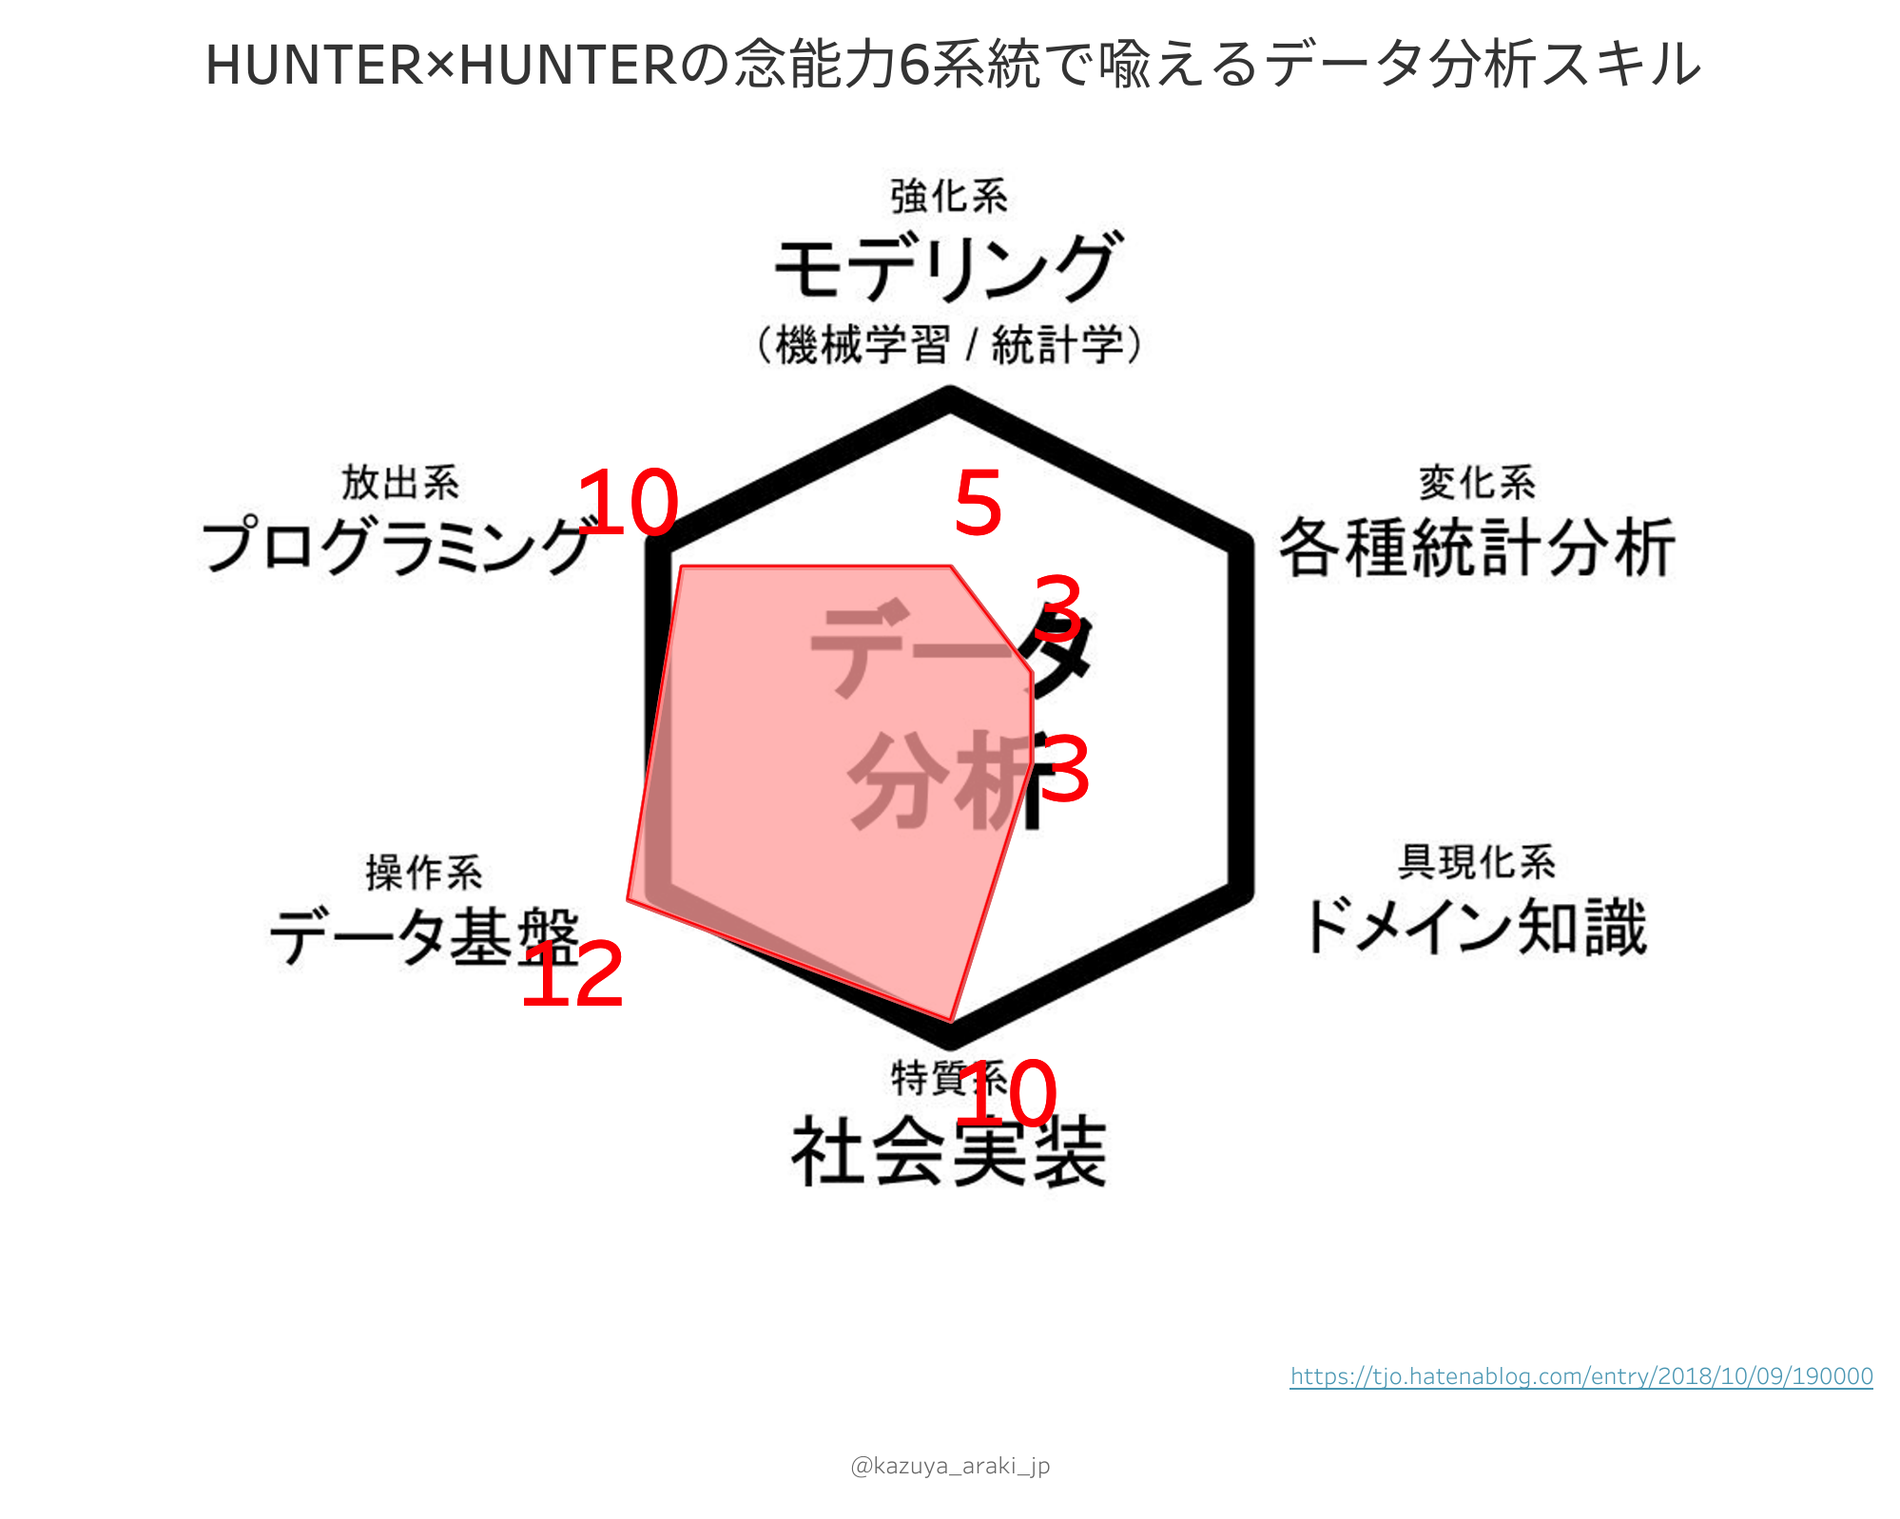
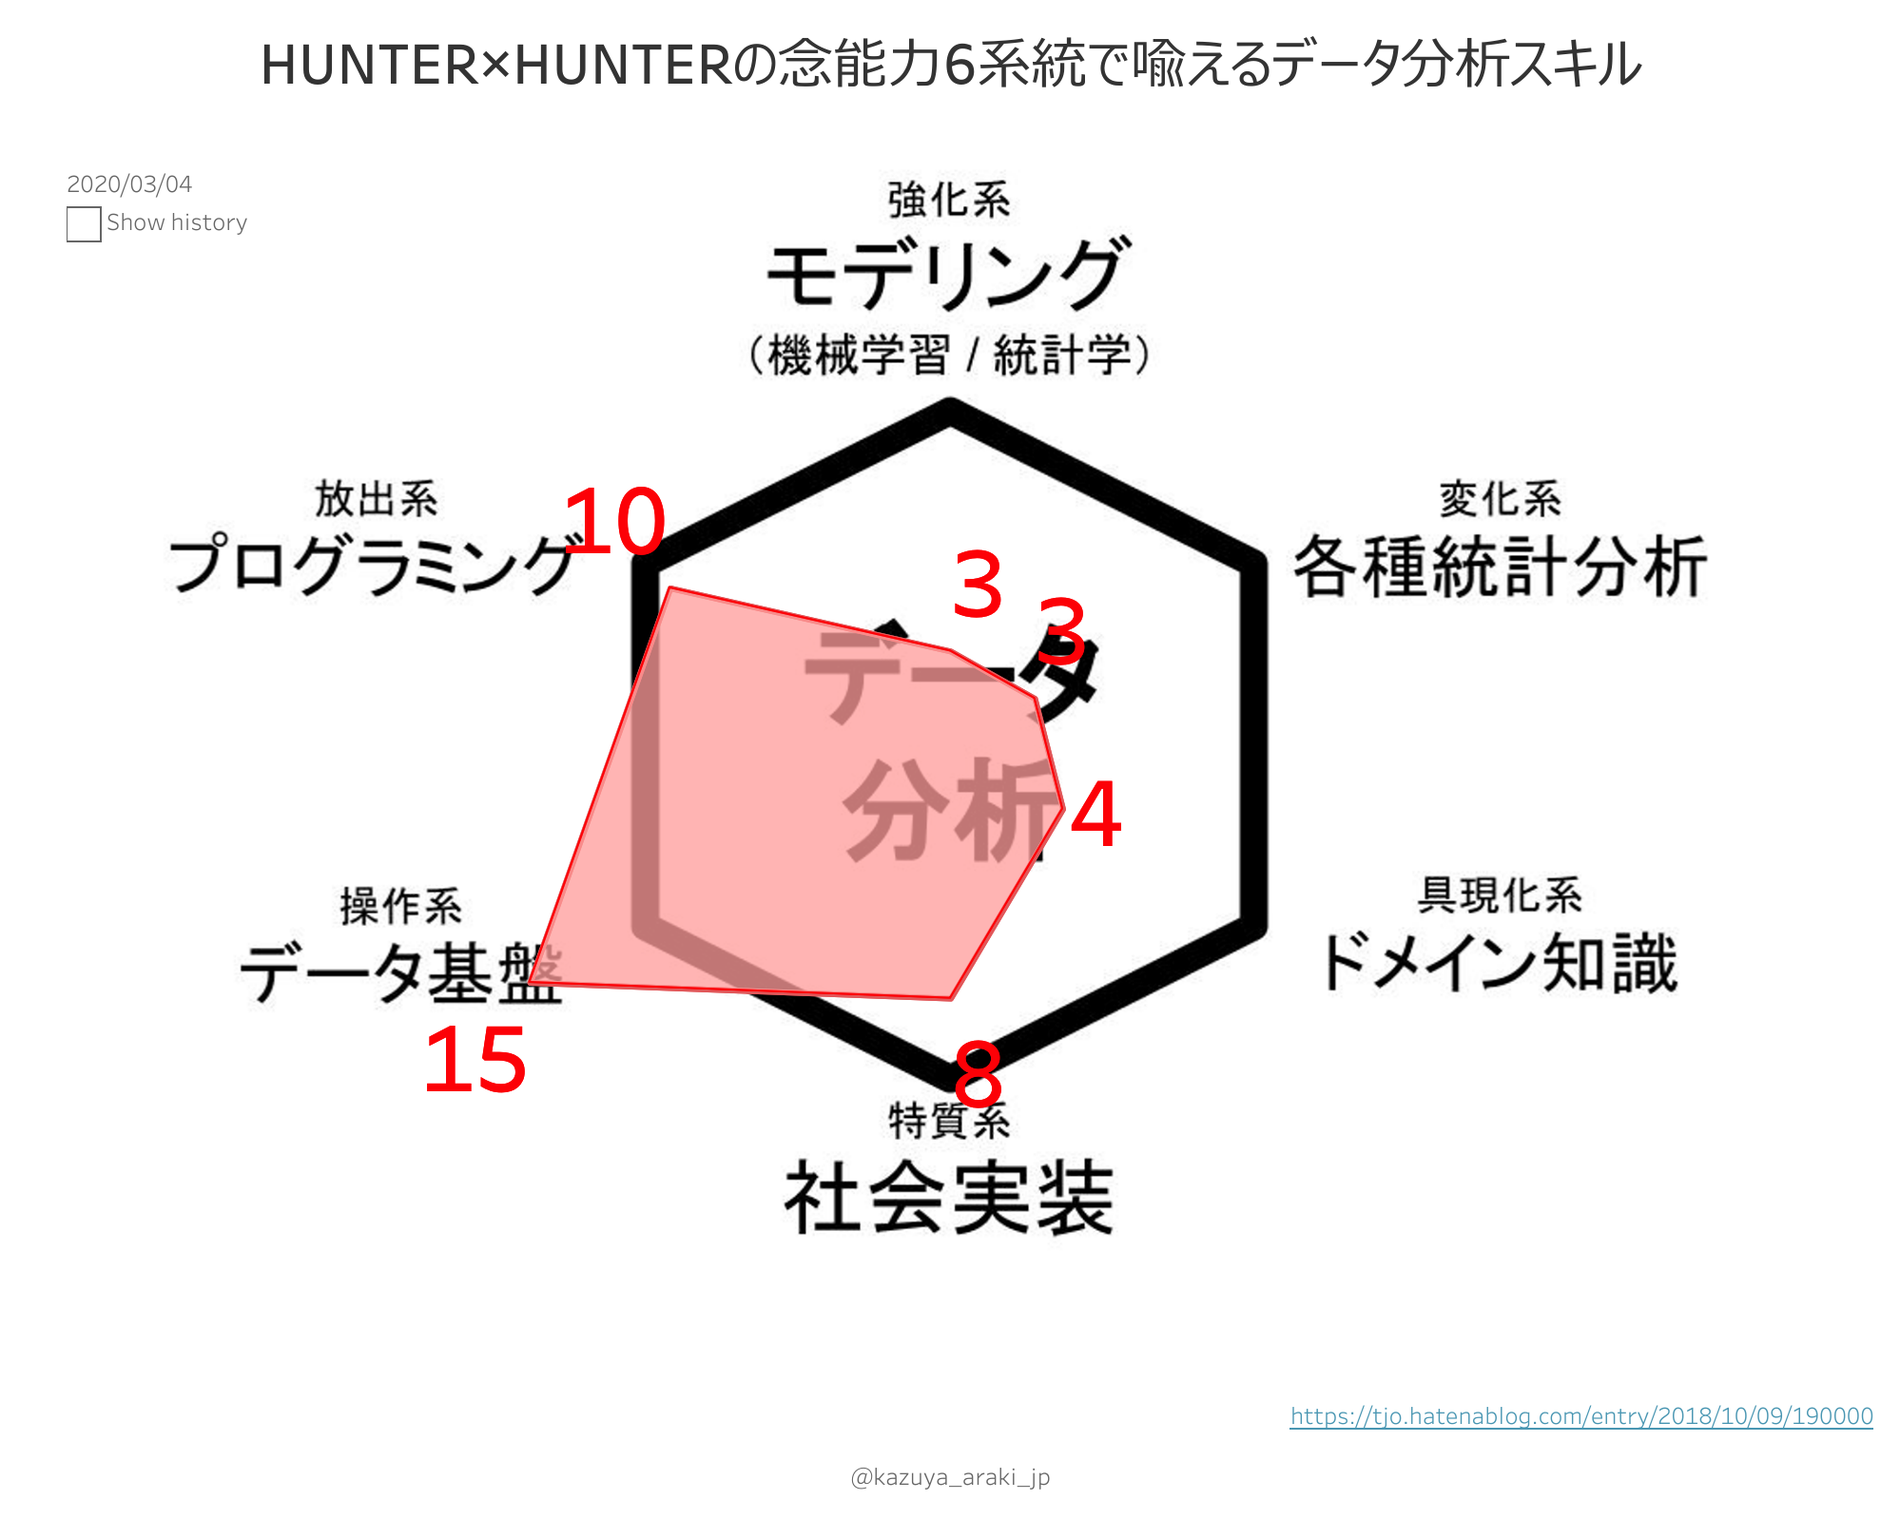
ADD: new company

diff --git a/README.md b/README.md
@@ -1,6 +1,6 @@
 # 職務経歴書
 
-2020年02月02日現在
+2020年03月16日現在
 
 ## 基本情報
 
@@ -11,7 +11,7 @@
 |性別|男|
 |血液型|O|
 |居住地|東京都中野区|
-|note|[Kazuya Araki](https://note.mu/jedi_trickstar)|
+|note|[Kazuya Araki](https://note.com/jedi_trickstar)|
 |Twitter|[kazuya_araki_jp](https://twitter.com/kazuya_araki_jp)|
 |GitHub|[araki-ka](https://github.com/araki-ka)|
 |Bitbucket|[araki-ka](https://bitbucket.org/araki-ka/)|
@@ -23,45 +23,51 @@
 
 ### 概要
 
-|Term|Overview|
+|Term|Company|
 |---|---|
 |2007年05月~2013年08月|[アロウズ・システム株式会社](http://www.arouse.co.jp/)|
 |2013年09月~2017年04月|[株式会社レジェンド・アプリケーションズ](http://www.legendapl.com/)(現、[株式会社ラキール](https://lakeel.com/))|
-|2017年05月~現在|[株式会社ビズリーチ](http://www.bizreach.co.jp/)|
+|2017年05月~2020年03月|[株式会社ビズリーチ](http://www.bizreach.co.jp/)|
+|2020年03月~現在|[株式会社エウレカ](https://eure.jp/)|
 
 ### 詳細
 
 #### アロウズ・システム株式会社
 
-|Term|Content|Organization / Role|
-|---|---|---|
-|2007年05月~2011年04月|- SAP製品アドイン開発(Java, ABAP)<br>- Webアプリケーション開発(Java, PHP)|メンバー|
-|2011年04月~2012年10月|受託開発(tier 1~tier 3)|メンバー~リーダー|
-|2012年11月~2013年08月|- オープンWebシステムの運用保守<br>- 小規模〜中規模程度のシステム改修案件|メンバー -> 開発リーダー|
+|Term|Organization|Role|Contents|
+|---|---|---|---|
+|2007年05月~2011年04月|オープンシステム開発部|システムエンジニア メンバー|- SAP製品アドイン開発(Java, ABAP)<br>- Webアプリケーション開発(Java, PHP)|
+|2011年04月~2012年10月|オープンシステム開発部|システムエンジニア メンバー~リーダー|受託開発(tier 1~tier 3)|
+|2012年11月~2013年08月|オープンシステム開発部|システムエンジニア メンバー -> 開発リーダー|- オープンWebシステムの運用保守<br>- 小規模〜中規模程度のシステム改修案件|
 
 #### 株式会社レジェンド・アプリケーションズ
 
-|Term|Content|Organization / Role|
-|---|---|---|
-|2013年09月~2014年09月|ワークフローパッケージ「LaKeel Workflow」製品開発|開発メンバー -> プロダクトリーダー|
-|2014年10月~2015年01月|Webアプリケーション構築プロジェクト瑕疵対応|メンバー、テスト自動化チームリーダー|
-|2015年02月~2016年07月|ビジネス用チャットパッケージ「COMPANY Messenger(現[LaKeel Messenger](https://messenger.lakeel.com/))」製品開発|メンバー -> プロダクトリーダー、アーキテクト|
-|2016年08月~2017年04月|Business Intelligenceパッケージ「[LaKeel BI](https://bi.lakeel.com/)」製品開発|プロダクトマネージャー(≒プレイングマネージャー)、アーキテクト、PMO|
+|Term|Organization|Role|Contents|
+|---|---|---|---|
+|2013年09月~2014年09月|プロダクト開発本部 LaKeel開発グループ LWF開発チーム|フロントエンドエンジニア -> バックエンドエンジニア -> プロダクトリーダー|ワークフローパッケージ「LaKeel Workflow」製品開発|
+|2014年10月~2015年01月|AMS開発本部|テスト自動化チームリーダー|Webアプリケーション構築プロジェクト瑕疵対応|
+|2015年02月~2016年07月|プロダクト開発本部 LaKeel開発グループ CM開発チーム|アプリケーションエンジニア -> プロダクトリーダー、アーキテクト|ビジネス用チャットパッケージ「COMPANY Messenger(現[LaKeel Messenger](https://messenger.lakeel.com/))」製品開発|
+|2016年08月~2017年04月|プロダクト開発本部 LaKeel開発グループ LBI開発チーム|プロダクトマネージャー、アーキテクト、PMO|Business Intelligenceパッケージ「[LaKeel BI](https://bi.lakeel.com/)」製品開発|
 
 #### 株式会社ビズリーチ
 
-|Term|Content|Organization / Role|
-|---|---|---|
-|2017年05月~2017年07月|事業戦略部 BIグループ|データ抽出、加工、分析。<br>データを用いて既存事業をグロースさせる施策を考えたりしています。|
-|2017年08月~2017年12月|事業戦略本部 事業戦略部 BIグループ(組織名変更のみ)|上記は継続。<br>データサイエンティスト活動開始。<br>非エンジニア向けにITリテラシーを向上する活動(技術提供、勉強会、ナレッジシェアリング等)。|
-|2018年01月|事業戦略本部 事業戦略部 BIグループ<br>兼<br>ビズリーチ事業本部 サービス開発本部(ビズリーチ) カスタマーマーケティング部(ビズリーチ) カスタマーマーケティングイノベーション(ビズリーチ)|上記に加え、マーケティングチームを兼務。<br>データドリブンマーケティングチームを目指すべく、データ基盤の整備、既存オペレーションの改善提案など、カスタマーマーケティングチームと協働。|
-|2018年02月~2018年04月|事業戦略本部 事業戦略部 BIグループ<br>兼<br>マーケティングテクノロジー室|マーケティングテクノロジー室を兼務。<br>デジタルマーケティングを目指すべく、分析基盤のあり方を考え、実行に移す。|
-|2018年05月~2018年07月|マーケティングテクノロジー室<br>兼<br>事業戦略本部 事業戦略部 BIグループ|マーケティングテクノロジー室に主務移転。<br>データ分析基盤の要件定義、企画、設計、運用を担当。<br>データにまつわる知見を広めていき、データドリブン企業を推進。|
-|2018年08月~2019年01月|システム本部 マーケティングテクノロジー室<br>兼<br>事業戦略本部 事業戦略部 BIグループ|データ分析基盤の要件定義、企画、設計、運用保守<br>Tableau Server管理者<br>Tableauを利用したデータドリブン組織牽引|
-|2019年02月~2019年04月|リクルーティングプラットフォーム統括本部 マーケティングテクノロジー室<br>兼<br>事業戦略本部 事業戦略部|同上。<br>カスタマーサイドのデータ分析利活用支援(ダッシュボード作成、データ整備)。|
-|2019年05月~2019年07月|リクルーティングプラットフォーム統括本部 マーケティングテクノロジー室|同上。<br>Tableau推進(Classroom開校、Boot Camp)<br>ビジネスサイドのデータ利活用支援(レポーティング最適化、資料自動化など)|
-|2019年08月~2020年01月|HR Techカンパニー リクルーティングプラットフォーム事業ユニット マーケティングテクノロジー室|経営指標モニタリングプロジェクト(事業企画と協働)<br>ビジネスサイドのデータ利活用支援(レポーティング最適化、顧客提供用の定例資料自動化など)<br>Tableau Server管理<br>Data Warehouse(Google BigQuery)管理|
-|2020年02月~現在|DX推進室|CSOの意思決定をデータアナリティクスで支援<br>DBRE、横断プラットフォーム組織とのデータインフラ整備<br>Tableau Server管理<br>Data Warehouse(Google BigQuery)管理|
+|Term|Organization|Role|Contents|
+|---|---|---|---|
+|2017年05月~2017年12月|事業戦略部 BIグループ|データアナリスト|- ビズリーチサービスデータ抽出、加工、分析<br>- データを用いて既存事業のグロース施策提案<br>- 非エンジニア向けにITリテラシーを向上する活動(技術提供、勉強会、ナレッジシェアリング等)|
+|2018年01月|- 事業戦略本部 事業戦略部 BIグループ<br>- ビズリーチ事業本部 サービス開発本部(ビズリーチ) カスタマーマーケティング部(ビズリーチ) カスタマーマーケティングイノベーション(ビズリーチ)|データアナリスト、データエンジニア|- マーケティングチーム兼務<br>- データドリブンマーケティングチームを目指すべく、データ基盤の整備、既存オペレーションの改善提案など、カスタマーマーケティングチームと協働|
+|2018年02月~2018年04月|- 事業戦略本部 事業戦略部 BIグループ<br>- マーケティングテクノロジー室|データエンジニア|- マーケティングテクノロジー室兼務<br>- デジタルマーケティングを目指すべく、データ分析基盤の起案、設計|
+|2018年05月~2018年07月|- マーケティングテクノロジー室<br>- 事業戦略本部 事業戦略部 BIグループ|データエンジニア|- マーケティングテクノロジー室主務移行<br>- データ分析基盤の要件定義、企画、設計、運用|
+|2018年08月~2019年01月|- システム本部 マーケティングテクノロジー室<br>- 事業戦略本部 事業戦略部 BIグループ|データエンジニア、データアナリスト|- データ分析基盤の要件定義、企画、設計、運用保守<br>- Tableau Server管理者<br>- Tableauを利用したデータドリブン組織牽引|
+|2019年02月~2019年04月|- リクルーティングプラットフォーム統括本部 マーケティングテクノロジー室<br>- 事業戦略本部 事業戦略部|データエンジニア、データアナリスト|- 同上<br>- カスタマーサイドのデータ分析利活用支援(ダッシュボード作成、データ整備)|
+|2019年05月~2019年07月|リクルーティングプラットフォーム統括本部 マーケティングテクノロジー室|データエンジニア、データアナリスト|- 同上<br>- Tableau推進(Classroom開校、Boot Camp)<br>- ビジネスサイドのデータ利活用支援(レポーティング最適化、資料自動化など)|
+|2019年08月~2020年01月|HR Techカンパニー リクルーティングプラットフォーム事業ユニット マーケティングテクノロジー室|データエンジニア、データアーキテクト|- 経営指標モニタリングプロジェクト(事業企画と協働)<br>- ビジネスサイドのデータ利活用支援(レポーティング最適化、顧客提供用の定例資料自動化など)<br>- Tableau Server管理<br>- Data Warehouse(Google BigQuery)管理|
+|2020年02月~2020年03月|DX推進室|データアナリスト、データアーキテクト|- CSOの意思決定をデータアナリティクスで支援<br>- DBRE、横断プラットフォーム組織とのデータインフラ整備検討<br>- Tableau Server管理<br>- Data Warehouse(Google BigQuery)管理|
+
+#### 株式会社エウレカ
+|Term|Organization|Role|Contents|
+|---|---|---|---|
+|2020年03月~現在|T.B.D.|T.B.D.|T.B.D.|
+
 
 ## 資格
 
@@ -74,12 +80,12 @@
 ## スキル
 
 ### [HUNTER×HUNTERの念能力6系統で喩えるデータ分析スキル](https://tjo.hatenablog.com/entry/2018/10/09/190000)
-- 強化系(モデリング) : 5
+- 強化系(モデリング) : 3
 - 変化系(各種統計分析) : 3
 - 放出系(プログラミング) : 10
-- 具現化系(ドメイン知識) : 3
-- 操作系(データ基盤) : 12
-- 特質系(社会実装) : 10
+- 具現化系(ドメイン知識) : 4
+- 操作系(データ基盤) : 15
+- 特質系(社会実装) : 8
 ![HUNTER×HUNTERの念能力6系統で喩えるデータ分析スキル](./image/nen.png)
 [Tableau Public](https://public.tableau.com/views/HUNTERHUNTER6/HUNTERHUNTER6?:embed=y&:display_count=yes)
 
@@ -133,6 +139,7 @@
 - HTML
 - CSS
 - R
+- Terraform
 
 ### Middleware
 
@@ -174,26 +181,27 @@
         - [IAM & Admin](https://cloud.google.com/iam/)
         - Security
             - [VPC Service Control](https://cloud.google.com/vpc-service-controls/)
+            - [Access Context Manager](https://cloud.google.com/access-context-manager/docs)
     - Compute
         - [App Engine](https://cloud.google.com/appengine/)
         - [Compute Engine](https://cloud.google.com/compute/)
         - [Cloud Function](https://cloud.google.com/functions/)
     - Storage
         - [Cloud Storage](https://cloud.google.com/storage/)
-            - [Storage Transfer Service](https://cloud.google.com/storage-transfer/docs/)
+        - [Data Transfer](https://cloud.google.com/storage-transfer/docs/)
     - Networking
         - [VPC Network](https://cloud.google.com/vpc/)
-    - [Stackdriver](https://cloud.google.com/stackdriver/)
+    - Operations
         - [Monitoring](https://cloud.google.com/monitoring/)
         - [Debuger](https://cloud.google.com/debugger/)
         - [Trace](https://cloud.google.com/trace/)
         - [Logging](https://cloud.google.com/logging/)
     - Big Data
+        - [Dataproc](https://cloud.google.com/dataflow/)
+        - [Pub/Sub](https://cloud.google.com/pubsub/)
         - [Dataflow](https://cloud.google.com/dataflow/)
         - [BigQuery](https://cloud.google.com/bigquery/)
             - [BigQuery Data Transfer Service](https://cloud.google.com/bigquery/transfer/)
-        - [Pub/Sub](https://cloud.google.com/pubsub/)
-        - [Dataproc](https://cloud.google.com/dataflow/)
         - [Dataprep](https://cloud.google.com/dataprep/)
 - [さくらのクラウド](https://cloud.sakura.ad.jp/)
 - [TREASURE DATA](https://www.treasuredata.co.jp/)
@@ -210,8 +218,25 @@
 - [SQL Server Management Studio(SSMS)](https://docs.microsoft.com/ja-jp/sql/ssms/download-sql-server-management-studio-ssms)
 - [PyCharm](https://www.jetbrains.com/pycharm/)
 
+## Vision / Mission
+
+### Vision
+
+```
+データの力で世界を変革するトリックスターとして、人々を導く存在となる
+```
+
+### Mission
+
+```
+- データの導き手として、価値あることを正しく伝え、発信する
+- データの導き手として、常にトップランナーであることにこだわる
+- データの導き手として、教育、育成に対して投資を惜しまない
+```
+
 ## 座右の銘
 
+- 価値あることを正しく行う
 - Stay Hungry, Stay Foolish.
 - Simple is the best.
 - 現状に満足せず、常に好奇心を持ち続ける
@@ -294,11 +319,13 @@
         - 重回帰分析を用いてCustomer領域のデータモデルパッケージを試作。
         - 教師なし学習を用いたHR領域の予測モデルを適用。
     - Tableau + Python
-        - 簡単な予測モデルのドラフトを作成。 
+        - 簡単な予測モデルのドラフトを作成。
 
 ### 読書とアウトプット
 
-- 読書ジャンルはビジネス、歴史、哲学などリベラルアーツ全般。
+- ジャンル
+    - ビジネス
+    - 歴史、哲学などリベラルアーツ
 - テーマについて議論したり書評を述べたりするアウトプット(という名の発散)が重要だと考えています。
 - 読書会、輪読会歓迎。
 
@@ -314,9 +341,3 @@
 
 知見と人脈を広げるために、データ人材界隈のイベントに参加したりしています。  
 登壇したりLTに参加し、アウトプットしています。
-
-### 価値あることを正しく行う。正しいことに価値を与えること
-
-[現職の企業理念(バリュー)](https://www.bizreach.co.jp/mission/)にある、 **価値あることを、正しくやろう** という言葉にとても感銘を受けています。  
-特に数字を取り扱ったり、アウトプットする職である以上、正しいことは当然の行動指針であるべきだと考えています。  
-また、正しいことであるにも関わらず価値提供できていないこと(先のエンジニアの地位など)を適切な価値を届けていきたいです。
